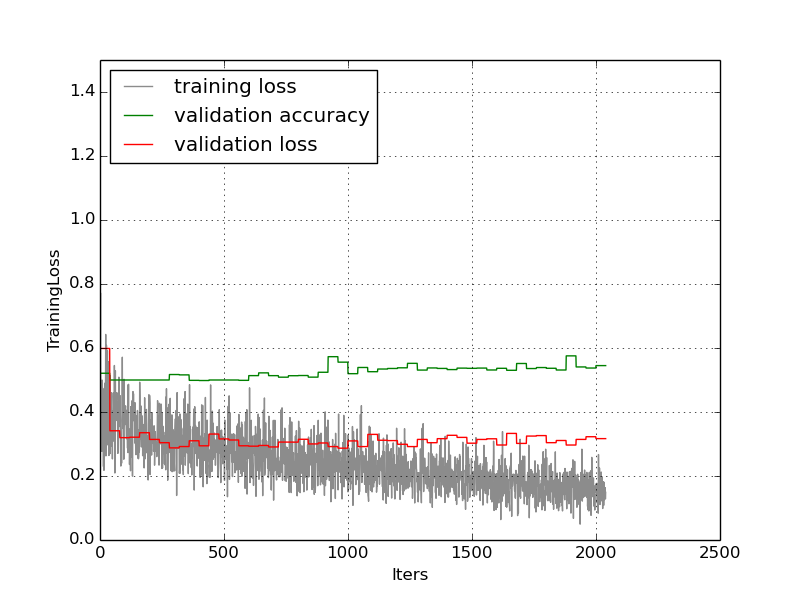
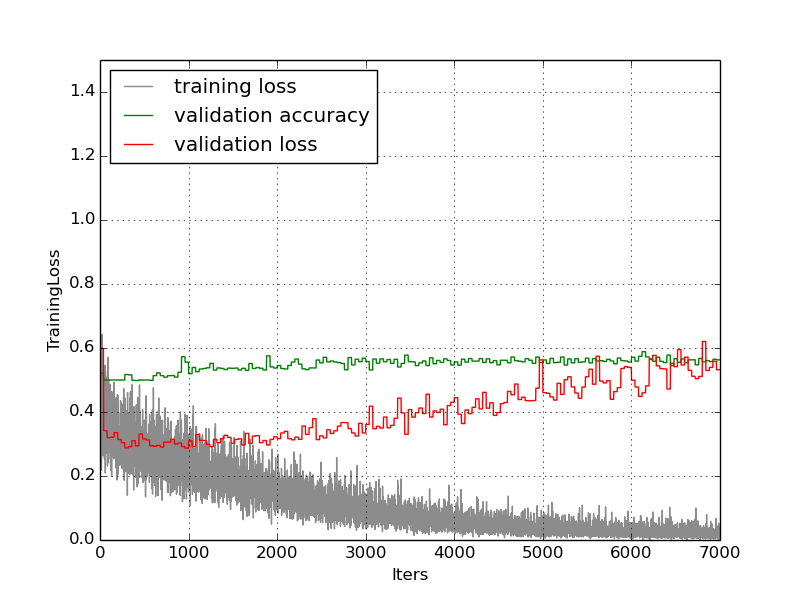
auto-commit progress on report

Changed region(s): [[0.125, 0.57, 0.9062, 0.93], [0.2188, 0.9, 0.375, 0.93]]

diff --git a/reports/report/report.tex b/reports/report/report.tex
@@ -1175,6 +1175,13 @@ The main difference is in the training error: when backpropagation is restricted
 
 However, there is an optimal middle ground: freezing backpropagation on four of the five convolutional layers achieves a maximal average per class validation accuracy of 89.2\%. A potential explanation for this is the one given above, namely that freezing backpropagation on lower layers conserves optimal features, forces the model to make more effort to fit the data with the limited use of the upper layers, and generalises better. \\
 
+\begin{figure}[h!]
+	\centering
+	\includegraphics[scale=0.5]{images/plot_clampdet_conv4.png}
+	\caption{Test Run with validation errors computed over an unchanging set}
+    \label{f29}
+\end{figure}
+
 
 \subsubsection{Initialising Free Layers}
 
@@ -1984,6 +1991,18 @@ This presents best results for each binary classifier. The first three columns a
     \caption {Final Results}
     \label{f59}
 \end{table} 
+
+
+\begin{figure}[h]       
+    \fbox{\includegraphics[scale=0.28]{images/plot_markings-fine_01-08-2014.png}}   
+    \hspace{30px}
+    \fbox{\includegraphics[scale=0.28]{images/kernel_edge_enhance.png}}
+    \hspace{30px}
+    \fbox{\includegraphics[scale=0.28]{images/kernel_edge_enhance_result.png}}
+    \caption{Image, kernel and resulting kernel map (source: convmatrix Gip documentation}
+    \label{f21}
+\end{figure}
+
 
 %To sum up, the two greatest challenges with the Bluebox dataset is small size and class imbalance. Small size can be dealt with by transferring knowledge from another task by initialising weights. Class imbalance can be cruelly dealt with using under-sampling, but this decreases the size of the dataset even more, making robustness ie generalisation the second challenge. Therefore, we use [..] and [..] to help with dealing with class imbalance and mitigate the extent of under-sampling. \\
 %
